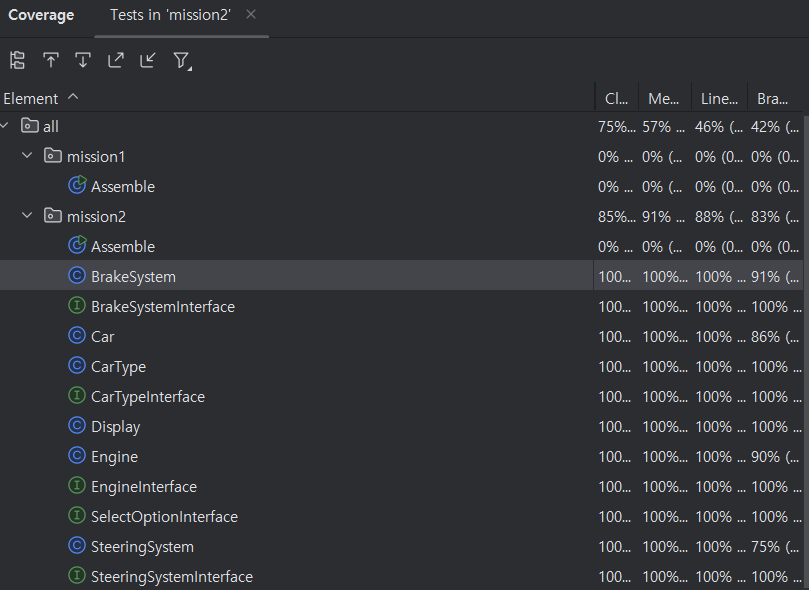
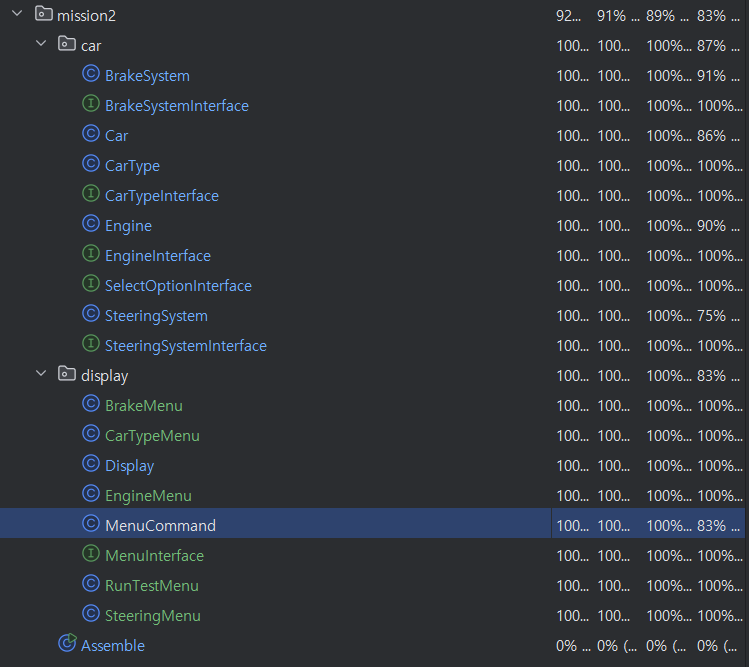
[D4] 패키지 분리 및 display 커맨드 패턴 적용

diff --git a/src/main/java/mission2/display/CarTypeMenu.java b/src/main/java/mission2/display/CarTypeMenu.java
@@ -1,0 +1,18 @@
+package mission2.display;
+
+public class CarTypeMenu implements MenuInterface {
+    @Override
+    public void show() {
+        System.out.println("        ______________");
+        System.out.println("       /|            |");
+        System.out.println("  ____/_|_____________|____");
+        System.out.println(" |                      O  |");
+        System.out.println(" '-(@)----------------(@)--'");
+        System.out.println("===============================");
+        System.out.println("어떤 차량 타입을 선택할까요?");
+        System.out.println("1. Sedan");
+        System.out.println("2. SUV");
+        System.out.println("3. Truck");
+        System.out.println("===============================");
+    }
+}

diff --git a/src/main/java/mission2/car/Car.java b/src/main/java/mission2/car/Car.java
@@ -1,10 +1,10 @@
-package mission2;
+package mission2.car;
 
-import static mission2.BrakeSystemInterface.*;
-import static mission2.CarTypeInterface.*;
-import static mission2.EngineInterface.TOYOTA;
-import static mission2.EngineInterface.WIA;
-import static mission2.SteeringSystemInterface.BOSCH_S;
+import static mission2.car.BrakeSystemInterface.*;
+import static mission2.car.CarTypeInterface.*;
+import static mission2.car.EngineInterface.TOYOTA;
+import static mission2.car.EngineInterface.WIA;
+import static mission2.car.SteeringSystemInterface.BOSCH_S;
 
 public class Car {
     public static final int CarType_Q      = 0;

diff --git a/src/main/java/mission2/display/MenuCommand.java b/src/main/java/mission2/display/MenuCommand.java
@@ -1,0 +1,19 @@
+package mission2.display;
+
+import mission2.car.Car;
+
+public class MenuCommand {
+    MenuInterface menu;
+
+    public MenuCommand(int step){
+        if (step == Car.CarType_Q) menu = new CarTypeMenu();
+        else if (step == Car.Engine_Q) menu = new EngineMenu();
+        else if (step == Car.BrakeSystem_Q) menu = new BrakeMenu();
+        else if (step == Car.SteeringSystem_Q) menu = new SteeringMenu();
+        else if (step == Car.Run_Test) menu = new RunTestMenu();
+    }
+
+    public void command(){
+        if(menu!=null) menu.show();
+    }
+}

diff --git a/src/main/java/mission2/display/EngineMenu.java b/src/main/java/mission2/display/EngineMenu.java
@@ -1,0 +1,14 @@
+package mission2.display;
+
+public class EngineMenu implements MenuInterface {
+    @Override
+    public void show() {
+        System.out.println("어떤 엔진을 탑재할까요?");
+        System.out.println("0. 뒤로가기");
+        System.out.println("1. GM");
+        System.out.println("2. TOYOTA");
+        System.out.println("3. WIA");
+        System.out.println("4. 고장난 엔진");
+        System.out.println("===============================");
+    }
+}

diff --git a/src/main/java/mission2/display/RunTestMenu.java b/src/main/java/mission2/display/RunTestMenu.java
@@ -1,0 +1,13 @@
+package mission2.display;
+
+public class RunTestMenu implements MenuInterface {
+    @Override
+    public void show() {
+        System.out.println("멋진 차량이 완성되었습니다.");
+        System.out.println("어떤 동작을 할까요?");
+        System.out.println("0. 처음 화면으로 돌아가기");
+        System.out.println("1. RUN");
+        System.out.println("2. Test");
+        System.out.println("===============================");
+    }
+}

diff --git a/src/main/java/mission2/display/BrakeMenu.java b/src/main/java/mission2/display/BrakeMenu.java
@@ -1,0 +1,13 @@
+package mission2.display;
+
+public class BrakeMenu implements MenuInterface {
+    @Override
+    public void show() {
+        System.out.println("어떤 제동장치를 선택할까요?");
+        System.out.println("0. 뒤로가기");
+        System.out.println("1. MANDO");
+        System.out.println("2. CONTINENTAL");
+        System.out.println("3. BOSCH");
+        System.out.println("===============================");
+    }
+}

diff --git a/src/main/java/mission2/display/Display.java b/src/main/java/mission2/display/Display.java
@@ -1,0 +1,20 @@
+package mission2.display;
+
+import mission2.car.Car;
+
+import java.awt.*;
+
+public class Display {
+    private static final String CLEAR_SCREEN = "\033[H\033[2J";
+
+    public void displayStep(Car car) {
+        System.out.print(CLEAR_SCREEN);
+        System.out.flush();
+
+        int step = car.getStep();
+        MenuCommand menu = new MenuCommand(step);
+        menu.command();
+
+        System.out.print("INPUT > ");
+    }
+}

diff --git a/src/main/java/mission2/display/SteeringMenu.java b/src/main/java/mission2/display/SteeringMenu.java
@@ -1,0 +1,12 @@
+package mission2.display;
+
+public class SteeringMenu implements MenuInterface {
+    @Override
+    public void show() {
+        System.out.println("어떤 조향장치를 선택할까요?");
+        System.out.println("0. 뒤로가기");
+        System.out.println("1. BOSCH");
+        System.out.println("2. MOBIS");
+        System.out.println("===============================");
+    }
+}

diff --git a/src/test/java/mission2/DisplayTest.java b/src/test/java/mission2/DisplayTest.java
@@ -1,9 +1,9 @@
 package mission2;
 
+import mission2.car.Car;
+import mission2.display.Display;
 import org.junit.jupiter.api.Test;
-import org.mockito.Mock;
 
-import static org.junit.jupiter.api.Assertions.*;
 import static org.mockito.Mockito.*;
 
 class DisplayTest {

diff --git a/src/test/java/mission2/SelectOptionInterfaceTest.java b/src/test/java/mission2/SelectOptionInterfaceTest.java
@@ -1,5 +1,9 @@
 package mission2;
 
+import mission2.car.BrakeSystem;
+import mission2.car.CarType;
+import mission2.car.Engine;
+import mission2.car.SteeringSystem;
 import org.junit.jupiter.api.Test;
 
 import static org.junit.jupiter.api.Assertions.*;

diff --git a/src/main/java/mission2/car/BrakeSystemInterface.java b/src/main/java/mission2/car/BrakeSystemInterface.java
@@ -1,4 +1,4 @@
-package mission2;
+package mission2.car;
 
 public interface BrakeSystemInterface extends SelectOptionInterface{
     public static final int MANDO = 1, CONTINENTAL = 2, BOSCH_B = 3;

diff --git a/src/main/java/mission2/car/CarTypeInterface.java b/src/main/java/mission2/car/CarTypeInterface.java
@@ -1,4 +1,4 @@
-package mission2;
+package mission2.car;
 
 public interface CarTypeInterface extends  SelectOptionInterface{
     public static final int SEDAN = 1, SUV = 2, TRUCK = 3;
